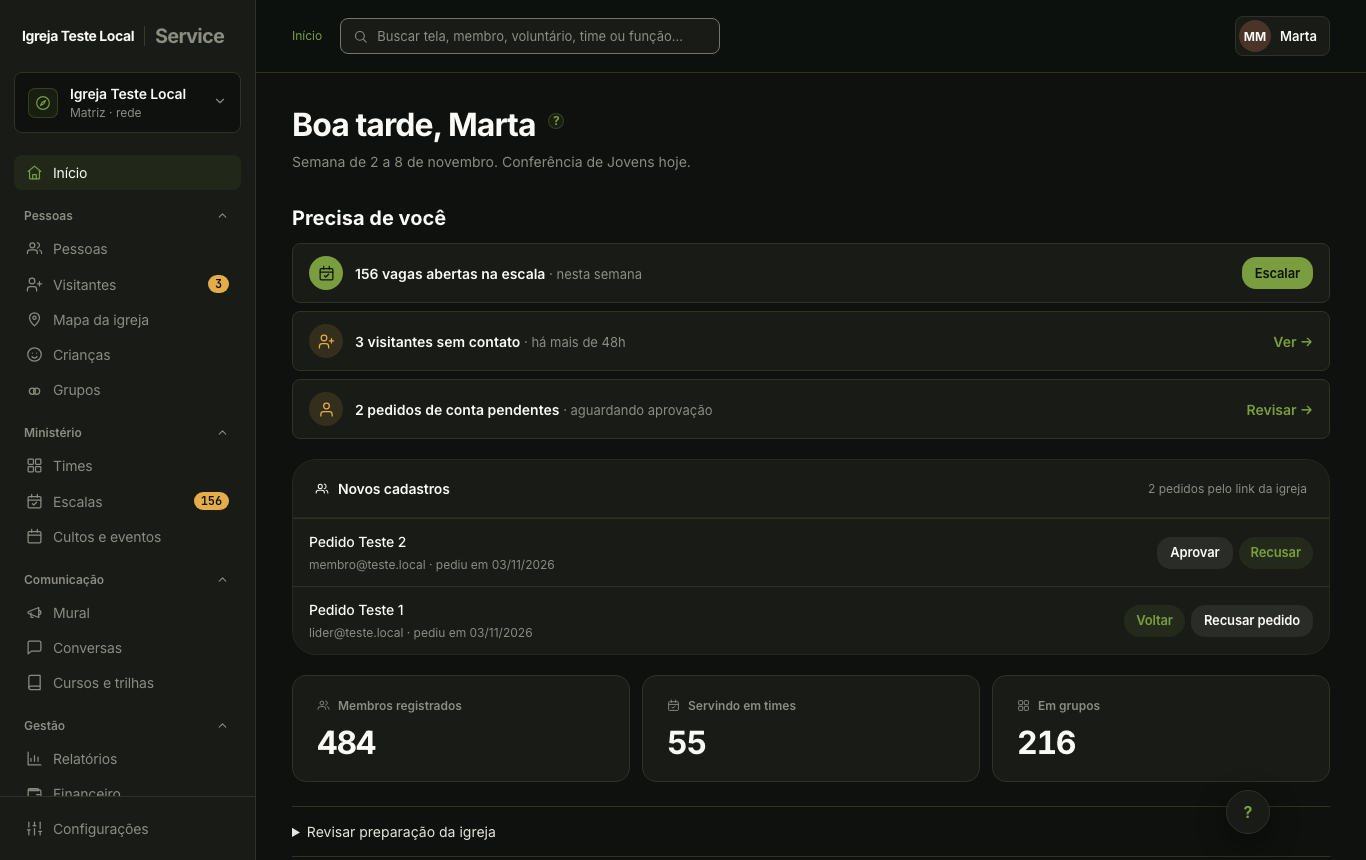
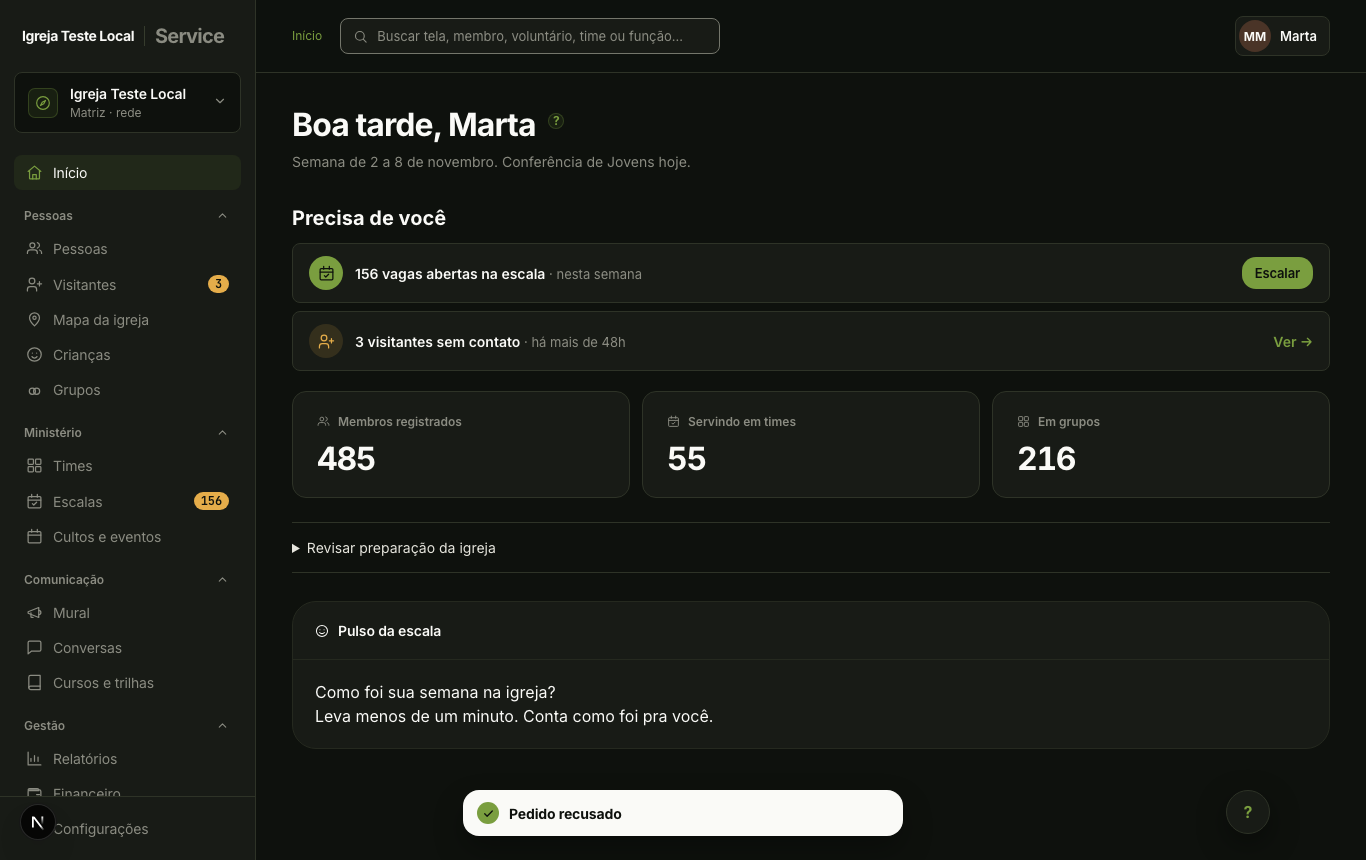
docs(I1): captura Etapa 2 - fila NovosCadastros aprovada/recusada pela tela
3 screenshots provando o fluxo completo via UI:
- i1-teste-fila-antes.png: 2 pedidos pendentes visíveis
- i1-teste-fila-aprovado.png: após aprovar primeiro, fila mostra 1 pedido
- i1-teste-fila-depois.png: após recusar segundo, componente some

Dados de teste limpos do Supabase local após captura.

diff --git a/docs/service-v7/historias/I1-tarefas-finais.md b/docs/service-v7/historias/I1-tarefas-finais.md
@@ -1,0 +1,42 @@
+# I1: tarefas finais (arquivo de trabalho, NÃO commitar)
+
+Esta é a fonte dos critérios. Se achar que falta histórico ou contexto, releia este arquivo. Não peça os critérios de novo.
+
+## Regras
+- Escreva sempre em português. Faça você mesmo, sem subagente, exceto o revisor na etapa 4.
+- Trabalhe só em `/Users/macbook/campusexpansao/.claude/worktrees/I1`, branch `historia/I1-inicio-fila-precisa-de-voce`. Nunca toque em `/Users/macbook/campusexpansao/app`.
+- Só Supabase local (127.0.0.1) e contas do seed local (`scripts/seed-local-service.ts`: master@teste.local para gestão, lider@teste.local para líder). Nunca produção; contas cex-fixture proibidas. Não procure senhas em `.env` nem no keychain; se faltar acesso, pergunte. Não grave senha em PR nem em documento.
+- O painel fica na rota `/service` (`app/service/page.tsx`). `/service/painel/inicio` não existe e dá 404.
+- As correções de código já estão na pasta, sem commit. Confira com `git diff`; não refaça.
+- Só vale o que você vir: "feito" exige prova (linha do código, saída do comando ou foto aberta).
+- Merge só com o OK do usuário.
+
+## Etapa 1: captura
+1. Suba o servidor a partir deste worktree, numa porta livre, apontando para o Supabase local. Encerre o que você mesmo tiver subido antes.
+2. Crie um só script, `scripts/i1-captura.mjs`. Ele entra com a conta, clica em "Pular tour", esconde o selo do Next e, antes de salvar cada foto, FALHA com erro se o TEXTO VISÍVEL (`page.locator("body").innerText()`, nunca `page.content()`, porque o Next põe "could not be found" no código de toda página) tiver "could not be found" ou não tiver "Precisa de você" (no líder, "Para resolver no seu time" também vale). Espere o texto aparecer antes de checar.
+3. Fotos finais em `docs/service-v7/historias/screenshots/`: `i1-depois-gestao-1366.png`, `i1-depois-gestao-820.png`, `i1-depois-lider-390.png`. Apague do branch `i1-depois-master-1366.png` e `i1-depois-tablet-820.png`.
+4. Abra cada foto com Read e descreva textos, cartões e botões. Os três cartões têm que ter moldura, sem número cortado.
+
+## Etapa 2: teste pela tela
+1. Crie 2 pedidos de teste em `service.entry_requests`.
+2. Sem SQL para decidir: clique em "Aprovar" num deles (a fila passa a dizer "1 pedido de conta pendente") e em "Recusar" no outro (a linha some).
+3. Fotos `i1-teste-fila-antes.png` e `i1-teste-fila-depois.png`, abertas e descritas.
+4. Apague os dados de teste.
+
+## Etapa 3: console e densidade
+1. Liste os erros do console na tela (lei 12), ou "nenhum" com a prova.
+2. Rode `scripts/medir-densidade.js` na página aberta, nas 3 larguras.
+3. Corrija `docs/service-v7/historias/I1-inicio-fila-precisa-de-voce.md`: um número só em cada lugar, sem "~" (hoje o texto diz 30 ações e 116 palavras; a tabela, ~25 e ~95).
+4. Registra 3 níveis de moldura e o limite é 2: se vier desta tela, corrija; se vier da casca, diga qual elemento. Se não cumprir a lei 13, escreva isso claramente, sem chamar de cumprido.
+
+## Etapa 4: revisão
+1. Skills, olhando as fotos reais (se der "Unknown skill", leia `.claude/skills/<nome>/SKILL.md`): impeccable (critique e polish), break-ui (fila vazia "Tudo em dia", 7 linhas, números de 4 dígitos, 360 px), design:accessibility-review (teclado na fila e nos cartões), mobile-native (390 e 820).
+2. Typecheck, `npx tsx scripts/check-service-componentes.ts`, `npx tsx scripts/check-graficos-contraste.ts`.
+3. Peça ao agente revisor para revisar o diff e corrija o que for real.
+
+## Etapa 5: fechar
+1. Apague só estes temporários de `scripts/`: aprovar-pedido-teste.ts, captura-i1-teste.ts, comparar-falhas.py, i1-captura-fila.mjs, i1-captura-final.mjs, i1-verificar.mjs, inserir-pedidos-final.ts, inserir-pedidos-sql.ts, inserir-pedidos-teste.ts, limpar-pedidos-teste.ts, teste-recusar-completo.ts, teste-recusar.ts. Não commite `scripts/i1-captura.mjs` nem este arquivo.
+2. Encerre o servidor que subiu.
+3. Commit arquivo por arquivo, só: NovosCadastros.tsx, Inicio.tsx, Relatorios.tsx, biblioteca.css, service-app.css, a história I1 e as 5 fotos citadas acima (e a remoção das duas antigas). Nunca `git add -A`. Fora: `.claude/launch.json`, `skills-lock.json`, `COMPARATIVO_PONTE.md` e as outras pastas de fotos.
+4. Push no mesmo branch e CI verde. Isso é tarefa sua, não do usuário.
+5. Relatório: cada etapa com "feito" e prova, ou "não fiz" e por quê.
